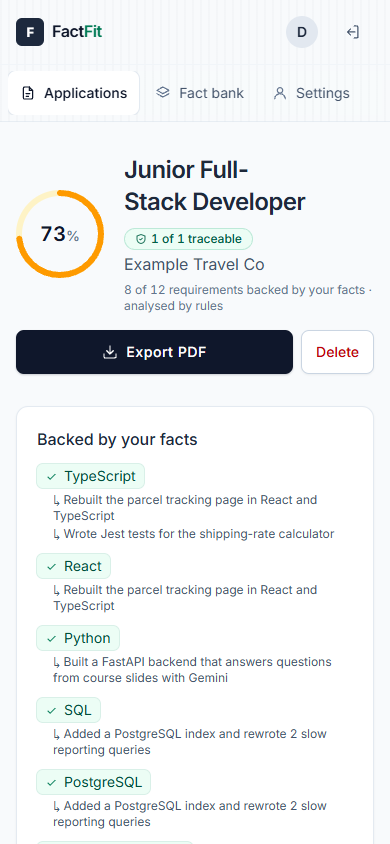
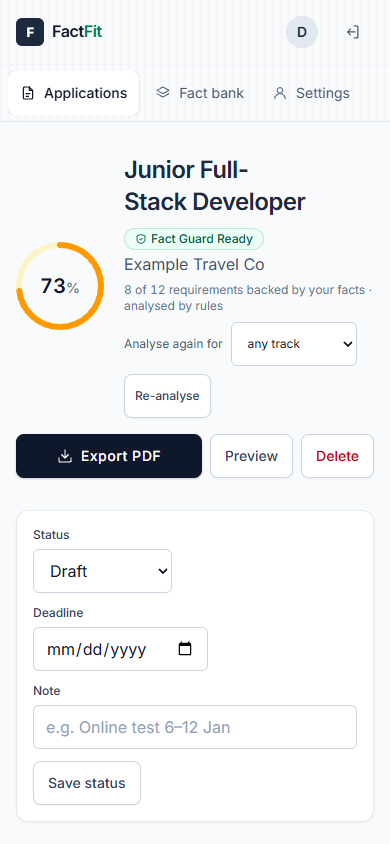
README: screenshots of the 2026-11-21 features
New shots: intake with link/poster/text and career tracks, applications with
status and deadline, status form with quick-add, import review, date presets
and tech chips. The script captures them; the import review uses a throwaway
local account with a fictional resume.

diff --git a/README.md b/README.md
@@ -16,6 +16,12 @@ fact bank, no sign-up needed.
 | ![Application page with fit score](docs/screenshots/application.png) | ![Fact bank page](docs/screenshots/fact-bank.png) |
 | **Try the guard: type a draft, see what it blocks** | **The guard, step by step, on an invented draft** |
 | ![Guard sandbox on the landing page](docs/screenshots/guard-sandbox.png) | ![Pipeline diagram blocking an invented draft](docs/screenshots/pipeline.png) |
+| **New application: paste text, a link or a poster; pick your track** | **Applications with status and deadline** |
+| ![New application with three sources and career tracks](docs/screenshots/new-application.png) | ![Applications list filtered by status](docs/screenshots/applications.png) |
+| **Status, re-analyse, preview, and add a missing skill as a fact** | **Import review: header, stack on every fact, GPAX** |
+| ![Application status form and quick-add fact](docs/screenshots/application-status.png) | ![Resume import review screen](docs/screenshots/import-review.png) |
+| **Date presets and click-to-add tech chips** | |
+| ![Experience date presets and fact tech chips](docs/screenshots/fact-editing.png) | |
 | **Settings: security checklist, password with show/hide, signed-in devices** | **Settings: sign-in methods (email + Google)** |
 | ![Security settings](docs/screenshots/settings-security.png) | ![Account settings](docs/screenshots/settings-account.png) |
 
@@ -26,7 +32,7 @@ fact bank, no sign-up needed.
 
 Screenshots use the fictional demo account and are regenerated with `scripts/screenshots.mjs` (still frames, reduced
 motion). The demo account's settings are locked, so the two settings shots come from a throwaway local test account
-that is deleted afterwards.
+that is deleted afterwards, and so does the import review (a fictional resume).
 
 ## How it works
 
